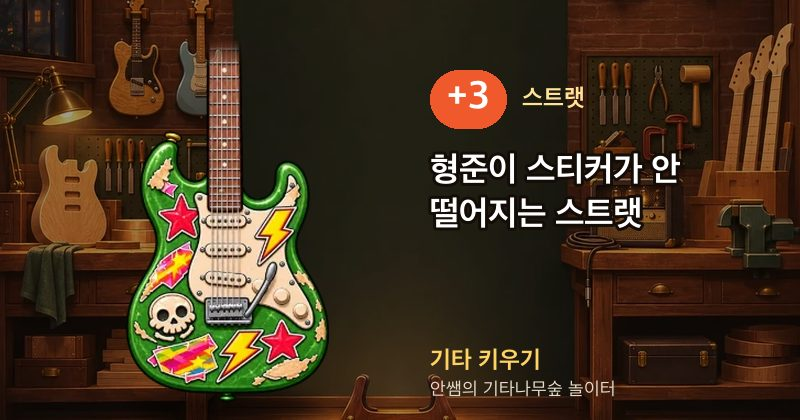
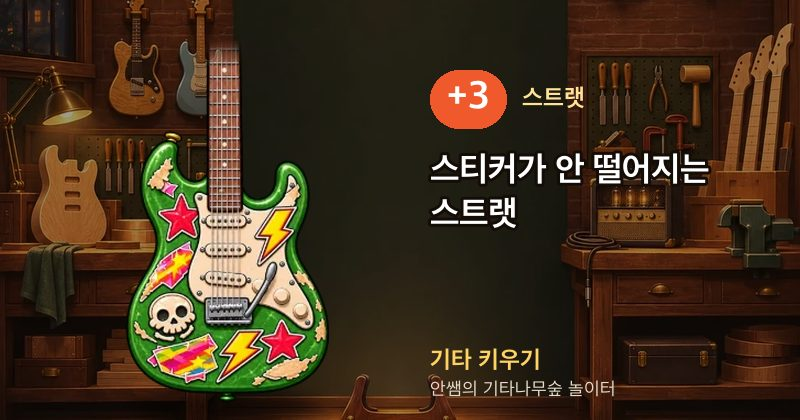
기타 키우기: 인물(박 사장·민지·ㅇㅇ)과 얼굴 그림 지움, 대사는 '나'만

Changed region(s): [[0.5312, 0.3405, 0.9062, 0.5571]]

diff --git a/play/gk/s/strat-3.html b/play/gk/s/strat-3.html
@@ -1,11 +1,11 @@
 <!doctype html>
 <html lang="ko"><head><meta charset="utf-8">
 <meta name="viewport" content="width=device-width,initial-scale=1">
-<title>+3 형준이 스티커가 안 떨어지는 스트랫 | 기타 키우기</title>
+<title>+3 스티커가 안 떨어지는 스트랫 | 기타 키우기</title>
 <meta name="robots" content="noindex">
 <meta property="og:type" content="website">
 <meta property="og:site_name" content="안쌤의 기타나무숲">
-<meta property="og:title" content="+3 형준이 스티커가 안 떨어지는 스트랫">
+<meta property="og:title" content="+3 스티커가 안 떨어지는 스트랫">
 <meta property="og:description" content="안쌤 놀이터 '기타 키우기'에서 키운 스트랫. 나도 키워 보기 →">
 <meta property="og:image" content="https://ahnssamguitar.com/images/play/gk/share/strat-3.jpg?v=12">
 <meta property="og:image:width" content="800"><meta property="og:image:height" content="420">

diff --git a/play/gk/s/strat-4.html b/play/gk/s/strat-4.html
@@ -1,11 +1,11 @@
 <!doctype html>
 <html lang="ko"><head><meta charset="utf-8">
 <meta name="viewport" content="width=device-width,initial-scale=1">
-<title>+4 박 사장이 한숨 쉬며 셋업한 스트랫 | 기타 키우기</title>
+<title>+4 한숨 쉬며 셋업한 스트랫 | 기타 키우기</title>
 <meta name="robots" content="noindex">
 <meta property="og:type" content="website">
 <meta property="og:site_name" content="안쌤의 기타나무숲">
-<meta property="og:title" content="+4 박 사장이 한숨 쉬며 셋업한 스트랫">
+<meta property="og:title" content="+4 한숨 쉬며 셋업한 스트랫">
 <meta property="og:description" content="안쌤 놀이터 '기타 키우기'에서 키운 스트랫. 나도 키워 보기 →">
 <meta property="og:image" content="https://ahnssamguitar.com/images/play/gk/share/strat-4.jpg?v=12">
 <meta property="og:image:width" content="800"><meta property="og:image:height" content="420">

diff --git a/CLAUDE.md b/CLAUDE.md
@@ -335,7 +335,7 @@
 - **광고**는 놀이터에만 Google AdSense로 붙인다(사용자 결정). 메인·악보 페이지에는 안 붙인다(광고 스크립트는 `play.js`만 부른다).
   - 자리: 시작 화면 아래 가로 띠(`wide`), 결과 보기 직전 전면 광고, 결과 화면 300×250(`r300`).
   - 월드컵 판 중간 전면 광고는 **64강·32강·16강으로 넘어갈 때만** 한 번씩(2026-11-09 사용자 결정 — 32강 판은 16강 넘어갈 때 한 번, 16강 판·8강 판은 중간 광고 없음. 예전 2026-11-08에는 8강 넘어갈 때도 넣었음). 결승이 끝나면 우승 화면 → 전면 광고 → 결과는 판 크기와 상관없이 그대로. `worldcup.html`의 `AD_ROUNDS`.
-  - **기타 키우기는 악기가 부서질 때 전면 광고 — 홀수 번째만** (2026-11-13 사용자: 첫 파괴엔 띄우고 두 번째는 건너뛰고 세 번째는 띄우고…, 이 브라우저의 부서진 횟수 `S.st.boom`):  '쾅!'과 조각 수까지 보여 준 뒤 `adBreak`(type `next`, name `boom`) → 광고가 닫히면 박 사장·민지 한마디. 하드케이스가 막은 건 안 부서졌으니 광고 없음. 띄울지·간격은 다른 전면 광고처럼 구글이 정한다(`guitar.html`의 `enhance()`).
+  - **기타 키우기는 악기가 부서질 때 전면 광고 — 홀수 번째만** (2026-11-13 사용자: 첫 파괴엔 띄우고 두 번째는 건너뛰고 세 번째는 띄우고…, 이 브라우저의 부서진 횟수 `S.st.boom`):  '쾅!'과 조각 수까지 보여 준 뒤 `adBreak`(type `next`, name `boom`) → 광고가 닫히면 '나'의 신세한탄. 하드케이스가 막은 건 안 부서졌으니 광고 없음. 띄울지·간격은 다른 전면 광고처럼 구글이 정한다(`guitar.html`의 `enhance()`).
   - **넥뿌의 요정 소환** (2026-11-15 사용자 — 아래 '광고 보고 되살리기'의 새 이름·새 규칙. 넥뿌 = 넥 부러짐): 파괴되면 창에 🧚 · '+N 이름' · '넥뿌의 요정을 부르면 부서진 기타를 되살려 줘요 / 광고를 끝까지 보면 와요' · **[🎬 넥뿌의 요정 소환]**(단추 글자 앞에 광고 표시 = 영화 슬레이트 아이콘 `fa-clapperboard`, 사용자: 요새 다 그 아이콘) · 그냥 보낼게요 · '한 번 부르면 15분 쉬어요'. 끝까지 보면 '🧚 넥뿌의 요정이 고쳐 줬어요!' + '+N 부활!'.
     - **쿨타임 15분**(`REVIVE_CD`, 하루 5번 규칙은 없앰). 쉬는 중에 또 부서지면 창 대신 '넥뿌의 요정은 쉬는 중이에요 · n분 뒤에 다시 부를 수 있어요' 알림(한 번이라도 부른 사람에게만 — 광고가 열리기 전엔 이 기능이 안 보이니까).
     - 광고가 준비됐을 때만 창이 뜨는 건 그대로라, **H5 게임 광고 승인 전인 지금은 실제 사이트에서 안 보인다.** `?ads=1`이면 흉내 광고(5초)로 볼 수 있다(2026-11-15 로컬에서 소환·부활·쿨타임 알림 확인).
@@ -449,7 +449,8 @@
 
 ## 11. 기타 키우기 (2026-11-12 목업 → 2026-11-13 공개)
 
-- 놀이터 세 번째 게임. 카톡 '검키우기' 구조(강화 → 성공/유지/파괴, 판매, 배틀)를 기타로 옮겼다. 옛 '라스트 기타리스트'(`~/Developer/lastguitarist`, 뱀서 버전은 태그 `v0.12-vampire-archive`)의 코드는 안 쓰고 그림·인물·톤만 가져왔다.
+- 놀이터 세 번째 게임. 카톡 '검키우기' 구조(강화 → 성공/유지/파괴, 판매, 배틀)를 기타로 옮겼다. 옛 '라스트 기타리스트'(`~/Developer/lastguitarist`, 뱀서 버전은 태그 `v0.12-vampire-archive`)의 코드는 안 쓰고 그림·톤만 가져왔다.
+- **인물은 '나' 하나뿐** (2026-11-15 사용자: "인물 다 지우자, 나도 얼굴 사진 지워"): 라스트 기타리스트에서 데려온 박 사장·민지·ㅇㅇ와 얼굴 그림(`face_*.jpg` 4장)을 지웠다. 대사는 모두 '나'의 혼잣말이고 말풍선에 얼굴 없이 '나'라는 이름만 보인다(`guitar.html`의 `WHO`·`LINES`). 스트랫 +3·+4 이름도 '스티커가 안 떨어지는 스트랫'·'한숨 쉬며 셋업한 스트랫'으로(예전 '형준이 …'·'박 사장이 …'). 새 대사·이름에 다른 인물을 넣지 않는다.
 - **공개 (2026-11-13 사용자: "공개하자")**: 게임은 `play/guitar.html`. **이제 고칠 때는 `guitar.html`을 바로 고친다**(아래 '목업 `…`'이라고 적힌 것은 모두 `guitar.html`의 같은 이름).
   - 목업 `play/guitar-mockup.html`은 공개 주소로 넘기는 작은 페이지만 남겼다(즐겨찾기·예전 공유 링크의 `mock=1`용). 예전 '준비 중' 화면은 없앴다.
   - 검색에 나오게 `noindex`를 뗐고 `sitemap.xml`·canonical을 달았다. og 그림은 +20 레스폴·스트랫 게임 썸네일 `images/play/gk/share/game.jpg`(2026-11-13, 그 전엔 놀이터 공통 `og-image.jpg` — 악기별 공유 링크는 아래 '카톡 공유 썸네일'). 위 메뉴는 '놀이터'(`/play/`) 하나라 따로 안 넣었다.
@@ -486,7 +487,7 @@
   - 능력치·상성 없이 **단계만**. 배틀 승률 = 검키우기 공식(같은 단계 50%, 높은 쪽 1 − 0.5^(차이+1)).
   - 돈은 **게임 골드만** 따로 쓴다. 배틀 한 번 끝낼 때 피크 10을 준다(하루 200 규칙 그대로, `PLAY.picks.earn()`).
   - **피크 시스템은 여기선 안 쓴다** (2026-11-13 사용자: '피크 시스템은 빼자 여기선'). 첫 '기타 찾기'는 **공짜**, 그다음부터 **300G**(`FIND_GOLD`). 출석도 골드만(피크 안 줌), 배틀을 끝내도 피크를 안 준다. 위 줄의 피크 칸은 '골드 받기'로 바뀌었다. (2026-11-12 ~ 11-13에는 첫 기타가 피크 3개였고, 골드가 모자라면 피크 3개로 시작했다.)
-    그다음부터 '시작'(기타 찾기)은 **300G**(2026-11-12 사용자: 50G는 싸다 → 300G, 목업 `FIND_GOLD` — +5는 가야 남는다. 출석 1,000G면 세 번). 골드가 모자라면 **피크 3개로** 시작한다(공짜 아님 — 사용자: "골드 모자라면 다른 놀이터 게임 하고 와서 피크 벌어 오면 되지"). 피크도 모자라면 '골드가 …G 모자라요' + 출석하고 받기 / 놀이터에서 피크 모으기·퀴즈쇼·월드컵 링크. '시작' 단추 바로 아래에 값(첫 기타는 '피크 3개')이 보인다. 이 규칙 전에 시작한 브라우저는 산 것으로 친다. 새로 온 사람은 출석만 해도(피크 10) 바로 시작할 수 있다. 피크가 모자란데 오늘 출석 전이면 작업대에 '출석하고 피크 받기'가 먼저 보이고, 박 사장도 "위에 출석부터 찍어라"라고 한다.
+    그다음부터 '시작'(기타 찾기)은 **300G**(2026-11-12 사용자: 50G는 싸다 → 300G, 목업 `FIND_GOLD` — +5는 가야 남는다. 출석 1,000G면 세 번). 골드가 모자라면 **피크 3개로** 시작한다(공짜 아님 — 사용자: "골드 모자라면 다른 놀이터 게임 하고 와서 피크 벌어 오면 되지"). 피크도 모자라면 '골드가 …G 모자라요' + 출석하고 받기 / 놀이터에서 피크 모으기·퀴즈쇼·월드컵 링크. '시작' 단추 바로 아래에 값(첫 기타는 '피크 3개')이 보인다. 이 규칙 전에 시작한 브라우저는 산 것으로 친다. 새로 온 사람은 출석만 해도(피크 10) 바로 시작할 수 있다. 피크가 모자란데 오늘 출석 전이면 작업대에 '출석하고 피크 받기'가 먼저 보였다.
   - **기타 찾기 연출** (2026-11-12 사용자: 강화처럼 기대감 있게): 무대가 어두워지고 그림자만 보이는 기타가 떨리며 빛이 모이다가, 번쩍하고 나타난다. 예전엔 '첫 기타 탄생!'·'기타 찾았다!' 글자가 떴는데 2026-11-15 뺐다(사용자: 앰프·멀티이펙터·베이스가 나오기도 해서). 첫 찾기 1.9초 + 숨 멈춤, 다음부터 1.1초. 찾기 전 카드에도 기타는 그림자로만 보인다.
   - **나중 컨셉 — 첫 기타 찾기는 랜덤** (2026-11-12 사용자): 스트랫이 나올지, 텔레가 나올지, 주전자 같은 아예 다른 물건이 나올지 모른다. 지금은 개발 첫 단계라 늘 스트랫. 아예 다른 물건이 되는 이름(냉장고 등)은 그때 넣는다.
   - **레스폴·텔레·슈퍼스트랫 +0~+9 이름·컨셉·그림 프롬프트**는 `docs/기타키우기_GPT_새계열_프롬프트.md`(2026-11-12 사용자 요청). +20 이름 후보: 게리 무르의 레스폴 · 키스 리차스의 텔레 · 스티브 바히의 슈퍼스트랫. 같은 문서에 **앰프·멀티이펙터·통기타·베이스 +0~+9**도 있다(같은 날 요청). 스트랫 빼고 7종(텔레·레스폴·슈퍼스트랫·통기타·베이스·앰프·멀티)의 **+10~+20 프롬프트**도 같은 문서 11~17절에 한 번에 있다(악기마다 +10~+19 시트 한 장 + '다음'이면 +20 한 장).
@@ -532,7 +533,7 @@
 - **규칙** (목업 맨 위 `ODDS`·`COST`·`SELL`)
   - **확률** (2026-11-12 사용자가 여러 번 정함): +0~+6은 부서짐 0%·줄 끊김 낮게(+1 96/4/0 · +3 88/12/0 · +5 82/18/0 · +6 78/22/0). +7부터는 **부서짐도 점점 올라가게, 마지막 +19→+20을 성공 5 · 줄 끊김 45 · 부서짐 50으로 정하고 나머지는 계산**: t = (단계−7)/12, 성공 = 75 − 70t, 부서짐 = 6 + 44·t^1.4, 줄 끊김 = 나머지 → +7 75/19/6 · +8 69/24/7 · +10 58/30/12 · +12 46/35/19 · +15 28/41/31 · +17 17/43/40 · +19 5/45/50 (목업 `ODDS`).
     - **확률은 작업대 화면에 안 보인다** (2026-11-13 사용자: '확률 안 보이게 하자, 아래 신호등 같은 거'). 성공·줄 끊김·파괴 세 칸(`.odds3`)을 뺐다. 궁금하면 그 아래 접혀 있는 **'강화 확률표'**를 열면 단계별로 다 보인다(화면에 적은 확률이 실제 확률이라는 약속은 그대로).
-  - 유지 = **줄 끊김**("팅!") — **멀티이펙터를 강화할 때는 '버튼 빠짐'**(2026-11-12 사용자: 확률 칸·확률표 이름도, 실패하면 "툭!" + '버튼 빠짐 — 다시 끼움', 풋스위치 버튼이 튀어 날아감). 파괴 = **무대에서 내리찍기**(쾅! + 조각, 박 사장·민지·ㅇㅇ 한마디). 들어 올리는 0.4초 동안 악기가 사알짝 벌게지고 붉은 빛이 번진다(2026-11-15 사용자, 캔버스에 악기 모양 위에만 빨강 40% — `redAt`). 부서지면 한마디 전에 전면 광고(2026-11-13, 9절 광고). 부서지면 '나'의 첫 대사는 "……" 대신 **신세한탄 22가지 중 하나**(2026-11-13 사용자: "아휴 연습이나 해야지 무슨 부귀영화를 누린다고" 느낌, `LINES.sigh`).
+  - 유지 = **줄 끊김**("팅!") — **멀티이펙터를 강화할 때는 '버튼 빠짐'**(2026-11-12 사용자: 확률 칸·확률표 이름도, 실패하면 "툭!" + '버튼 빠짐 — 다시 끼움', 풋스위치 버튼이 튀어 날아감). 파괴 = **무대에서 내리찍기**(쾅! + 조각, '나'의 한마디). 들어 올리는 0.4초 동안 악기가 사알짝 벌게지고 붉은 빛이 번진다(2026-11-15 사용자, 캔버스에 악기 모양 위에만 빨강 40% — `redAt`). 부서지면 한마디 전에 전면 광고(2026-11-13, 9절 광고). 부서지면 '나'의 첫 대사는 "……" 대신 **신세한탄 22가지 중 하나**(2026-11-13 사용자: "아휴 연습이나 해야지 무슨 부귀영화를 누린다고" 느낌, `LINES.sigh`, +10 넘게 키운 걸 부쉈으면 `LINES.bigSigh` 6가지).
   - **강화 기다림** (2026-11-12 사용자: 기대하게 하는 딜레이): 누르면 결과 전에 무대가 어두워지고, 기타가 점점 세게 떨리며 빛이 모이고, 낮은 북이 빨라지며, 아래 막대가 찬다.
     길이(`WAIT_MS`): +0~7 2.5초(2026-11-12 사용자: +8 전까지 조금 더 짧게) · +8~9 4.5초 · +10~14 5초 · +15~ 5.5초 (2026-11-12 사용자: 너무 빠르다 → 3초 → "좀 더 길어도" 4초 → "+6까지는 사알짝 줄이자" — 맨 처음 0.45~2.4초). 글자는 '강화 중…·두근두근…·제발…·숨 참는 중…'. +10부터는 결과 직전에 0.5초 숨 멈춤('……').
     결과는 누르는 순간 정해져 저장된다(새로고침해도 그대로). 기다리는 동안 위 줄은 골드만 바뀐다(조각·케이스 수가 결과를 먼저 알려 주지 않게).
@@ -556,7 +557,7 @@
     - **어느 단추도 기타를 가리면 안 된다**: 그림은 예전 무대 그대로(그림 자리 `--h0` = 400·470·330px, 기타·빛·효과(#fx)도 그 기준) 두고, **그 아래에** 어두운 칸(`--t` 64px)을 더해 [강화][팔기]를 둔다. 그림과 어두운 칸이 만나는 선은 22px 페더(`.botfade`). 그림 칸(`#stage`)과 아래 검은 칸(`#sband`)은 한 덩어리(`#stbox`)로 흔들리고·번쩍이고, 기다리는 동안 검은 칸도 같이 어두워진다(2026-11-15 사용자: 파괴될 때 박스 아래쪽에 선이 생김 — 그림 칸만 흔들려 사이가 벌어졌었다). (같은 날 처음엔 어두운 칸을 위에 뒀는데, 사용자: "작업대 아래에 검은 공간이 있어야지 위로 나오면 안 됨"·스킨을 바꿔도 위로 나옴 → 아래로.)
       그림 위에는 이름표와 **기타 양옆 좁은 칸**만: 왼쪽 조각 상자(네 줄 '파괴 시 조각 / 획득 9/20 / → 하드케이스로 / 파괴 방지 1/3', 360px 아래 폰은 두 줄 '조각 9/20 / 하케 1/3'), 오른쪽 '자랑하기'(아이콘 위·글 아래). 하드케이스 칩은 기타 몸통을 가려서 검은 칸으로 옮겼다. 8계열 × 12단계를 320·360·412·700px에서 그려 겹침 0 확인.
     - **강화하는 동안엔 박스 안 단추가 모두 안 보인다**(검은 칸은 높이만 남김, 조각 상자·자랑하기도 숨김). 예전 무대 아래 흰 단추 줄과 '○○ 튜너로 딱 맞히면 성공 n%…' 줄은 뺐다. 기다리는 동안엔 흐리게(`renderBand()`, `#sband`). 빈 작업대의 "'시작'은 300G예요, 골드가 모자라면…" 설명도 뺐다.
-  - **무대 안 아래에 '강화 | 진열하기' 단추** (2026-11-12 사용자 요청): 강화가 넓고(2.4 : 1) 진열하기 = 벽에 걸기. 작업대에 기타가 있으면 **늘** 보이고(처음엔 강화를 한 번 끝낸 뒤에만 보였는데 사용자가 '반영 안 됐다'고 해서 바꿈), 기다리는 동안·튜닝 중·빈 작업대엔 숨는다. 무대 아래 큰 '강화하기' 단추는 뺐다. 무대 아래 단추는 **[팔기] [버리기] [자랑]**(2026-11-12 사용자: 벽에 걸기는 '진열하기'와 같아서 빼고 버리기를 넣음 — 버리기는 골드 없이 작업대를 비움, 한 번 더 눌러야 버림). 작업자 대사 말풍선은 **기타 이름표 바로 아래에 붙어서 작게** 뜬다(2026-11-12 사용자: 아래에 뜨면 몸통을 가림 → '박 사장 멘트를 기타 이름 아래에 붙여'). 이름표와 한 덩어리(`#nmhud`)라 이름이 두 줄이 되어도 이름표 꼬리(▼) 바로 밑에 붙고 같이 둥실거린다. 빈 작업대면 맨 위.
+  - **무대 안 아래에 '강화 | 진열하기' 단추** (2026-11-12 사용자 요청): 강화가 넓고(2.4 : 1) 진열하기 = 벽에 걸기. 작업대에 기타가 있으면 **늘** 보이고(처음엔 강화를 한 번 끝낸 뒤에만 보였는데 사용자가 '반영 안 됐다'고 해서 바꿈), 기다리는 동안·튜닝 중·빈 작업대엔 숨는다. 무대 아래 큰 '강화하기' 단추는 뺐다. 무대 아래 단추는 **[팔기] [버리기] [자랑]**(2026-11-12 사용자: 벽에 걸기는 '진열하기'와 같아서 빼고 버리기를 넣음 — 버리기는 골드 없이 작업대를 비움, 한 번 더 눌러야 버림). 작업자 대사 말풍선은 **기타 이름표 바로 아래에 붙어서 작게** 뜬다(2026-11-12 사용자: 아래에 뜨면 몸통을 가림 → '멘트를 기타 이름 아래에 붙여'). 이름표와 한 덩어리(`#nmhud`)라 이름이 두 줄이 되어도 이름표 꼬리(▼) 바로 밑에 붙고 같이 둥실거린다. 빈 작업대면 맨 위.
   - **가운데 악기가 천천히 둥실** (2026-11-13 사용자: '중간 악기가 약간 위아래로 처언천히 작은 폭으로'): 기타 그림(`#cv`)이 5.2초에 한 번, 위아래 7px만 오간다(`cvBob`). **이름표는 안 움직인다**(같은 날 사용자: '기타 이름도 위아래로 움직이는데 안 움직이게끔' — 예전 `nmBob`을 뺐다). +10부터의 빛남(`cvGlow`)과 같이 돌아가고, 강화·팔기 같은 움직임이 있을 때는 그쪽이 이긴다. 움직임 줄이기 설정에서는 멈춘다.
   - **+10부터 기타 뒤 아우라** (2026-11-12 사용자: 그 기타 색상의 오로라 같은 게 흔들흔들 → '너무 크다, 기타 주변에서 더 빛나게' → '기타 아래쪽엔 돌아가는 조명' → '조명은 작게'): 기타 테두리가 그 색으로 숨 쉬듯 빛나고(drop-shadow), 뒤에 기타 폭만 한 빛 커튼이 흔들리고, 거치대 자리에서 빛줄기 셋이 좌우로 휘저으며 바닥이 빛난다. 색은 그 단계 그림에서 선명한 색이 가장 많은 색상각, +15부터 진하게, +20은 더 진하고 색이 섞인다(`#aura`·`.spots`·`.stage.glow`, `updAura`).
   - **이름은 기타 머리 위에 떠 있는 이름표**(2026-11-12 사용자): +N 배지와 이름이 무대 위 가운데에 둥실 떠 있고, 단계가 오르면 통 튄다. +10·+15·+20은 테두리가 빛난다.
@@ -638,7 +639,7 @@
   - 랭킹·배틀 열쇠는 처음 계정에 올린 기기의 것(`S.rk`)을 같이 저장해서, 다른 기기에서 로그인해도 같은 랭킹 줄로 이어진다.
   - 표 `play_guitar_saves`(계정마다 한 줄, 64KB까지)·함수 `play_guitar_load`·`play_guitar_store`(로그인한 사람만) — **2026-11-12 적용함**(로그인 사용자로 저장·불러오기 시험 후 되돌림, 로그인 안 한 사람은 못 씀).
 - (예전 문장) 진행은 이 브라우저(localStorage `play.gk`)에만. 효과음은 Web Audio로 만든 소리라 음원 파일이 없다(ElevenLabs로 새로 뽑으면 커밋 전에 묻는다).
-- **그림**: 몸통 = 라스트 기타리스트 `item_strat.png`(19×50), 작업대 무대 배경 = **`bg_workshop.webp`**(2026-11-12 사용자가 ChatGPT로 뽑은 밤의 기타 공방, 1024×1024, 가운데 거치대 위에 강화 기타가 선다 — 예전 도트 `bg_studio.png`는 '준비 중' 화면이 없어져 이제 안 씀), 작업방 진열 벽 = `wall_wood.webp`(예전 소품 `prop_*`은 안 씀), 대사 얼굴 `face_*.jpg` — 모두 `images/play/gk/`.
+- **그림**: 몸통 = 라스트 기타리스트 `item_strat.png`(19×50), 작업대 무대 배경 = **`bg_workshop.webp`**(2026-11-12 사용자가 ChatGPT로 뽑은 밤의 기타 공방, 1024×1024, 가운데 거치대 위에 강화 기타가 선다 — 예전 도트 `bg_studio.png`는 '준비 중' 화면이 없어져 이제 안 씀), 작업방 진열 벽 = `wall_wood.webp`(예전 소품 `prop_*`은 안 씀) — 모두 `images/play/gk/`. (대사 얼굴 `face_*.jpg`는 2026-11-15 지움.)
   - **단계별 기타 +0~+9 = `strat_00`~`09.webp`** (2026-11-12 사용자가 뽑은 시트 한 장에서 Claude가 잘라 배경을 뺌). 56×84칸 틀 그대로 448×672(1칸 = 8픽셀)로 맞춰서 헤드 위 끝 26칸·몸통 아래 끝 76칸·넥 가운데 28칸 — 도트 기타와 같은 자리라 무대·걸이 위치는 그대로다. 그림 단계는 캔버스에 그림을 한 번만 그리고(바뀔 때만 다시), 줄 끊김은 그 위에 흰 줄이 휘어 튕긴다. 그림은 처음 필요할 때 불러온다(한 장 약 20KB).
   - 코드로 찍은 임시 도트는 이제 그림을 못 불러올 때만 쓴다(예전에는 +10~+20)(2026-11-12 냉장고·전봇대·위성을 빼고 +12 서리·+14 바람·+15 별자리로). 찾기 전 카드의 그림자는 `item_strat.png` 그대로.
 - 남은 일: 히든(빗자루 기타·빨래판처럼 기타가 아닌 것, 낮은 확률, 비싸게 팜) · ElevenLabs 효과음 · '비 오는 뒷골목' 싸움터·'햇살 드는 낮 공방' 작업대 그림 · 서버 하루 배틀 5번은 2026-11-13 `play_guitar_fight_no.sql`로 적용함.

diff --git a/docs/기타키우기_GPT_부품_프롬프트.md b/docs/기타키우기_GPT_부품_프롬프트.md
@@ -23,8 +23,8 @@
 | +0 | 중고나라에서 온 스트랫 | 먼지·흠집, 누런 픽가드, 가격표 |
 | +1 | 손끝까지 녹물 드는 스트랫 | 녹슨 줄, 녹물 자국 |
 | +2 | 줄 갈았더니 드디어 소리 나는 스트랫 | 반짝이는 새 줄 |
-| +3 | 형준이 스티커가 안 떨어지는 스트랫 | 덕지덕지 스티커 |
-| +4 | 박 사장이 한숨 쉬며 셋업한 스트랫 | 반질반질, 렌치, 빈 메모지 |
+| +3 | 스티커가 안 떨어지는 스트랫 | 덕지덕지 스티커 |
+| +4 | 한숨 쉬며 셋업한 스트랫 | 반질반질, 렌치, 빈 메모지 |
 | +5 | 금빛 픽업에서 윙 소리 나는 스트랫 | 금색 픽업, 윙윙 선 |
 | +6 | 넥이 하나 더 자란 스트랫 | 가지처럼 자란 작은 넥 |
 | +7 | 반짝이 뿌려서 눈부신 스트랫 | 온몸 반짝이 |
